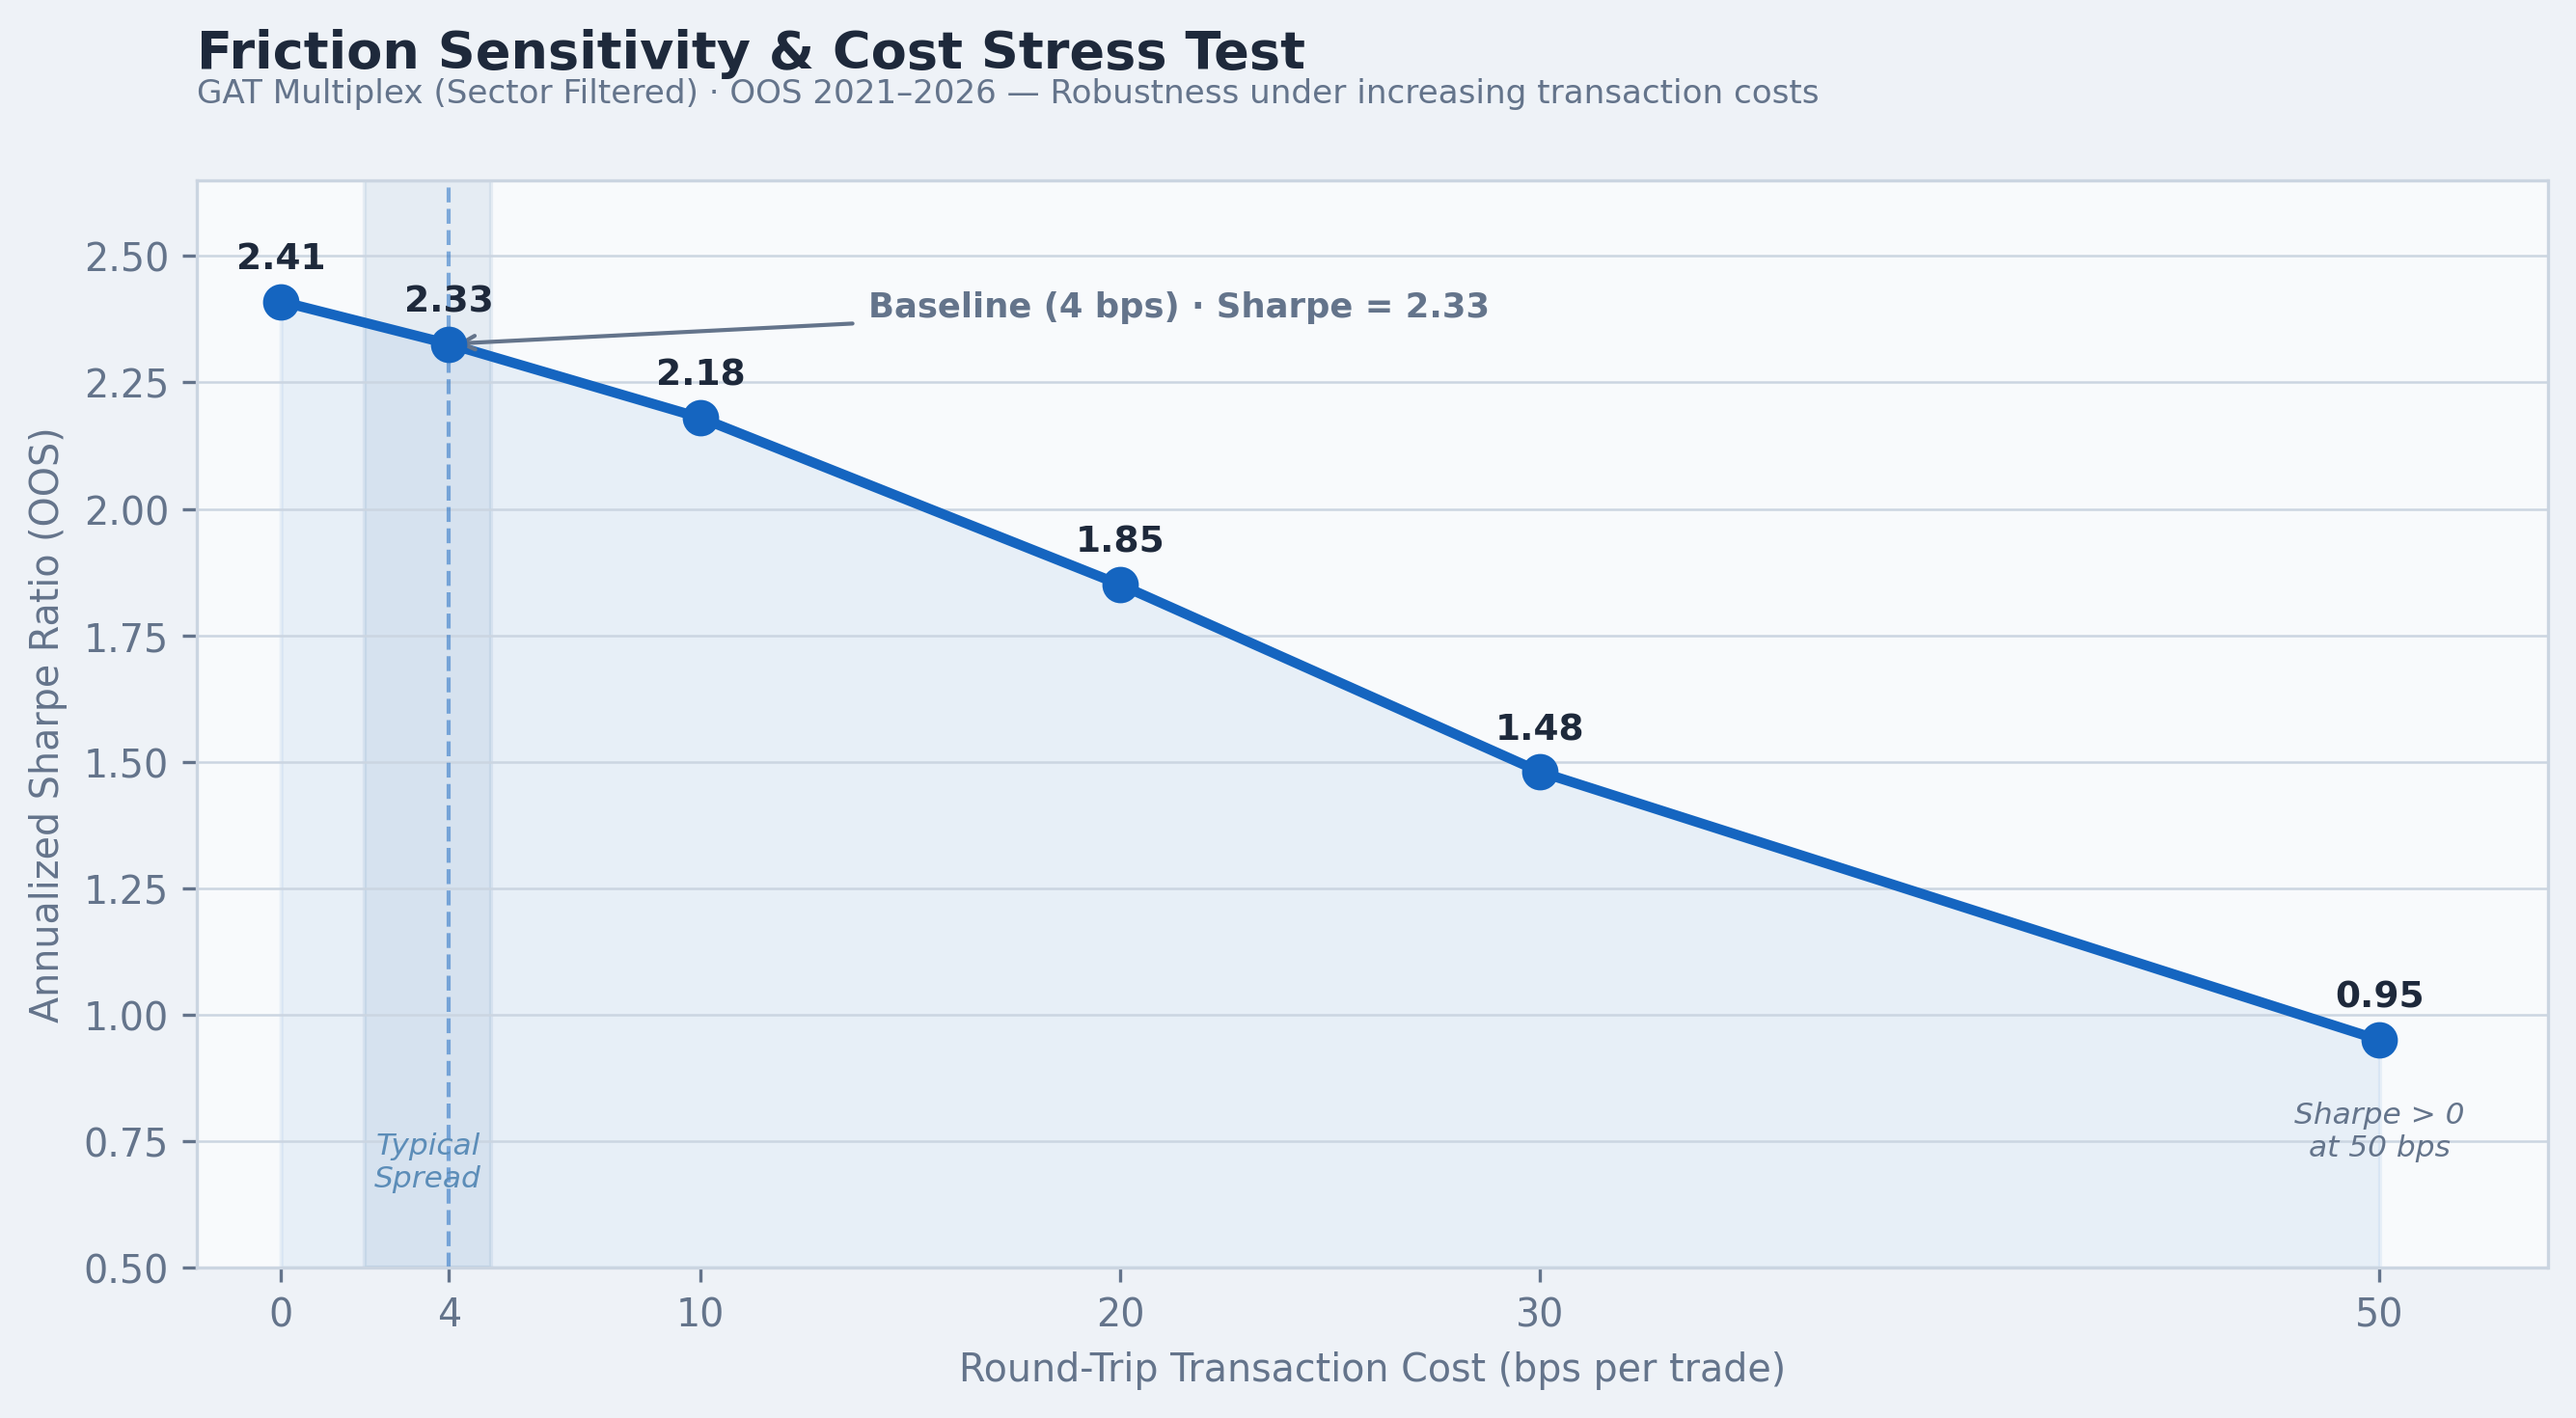
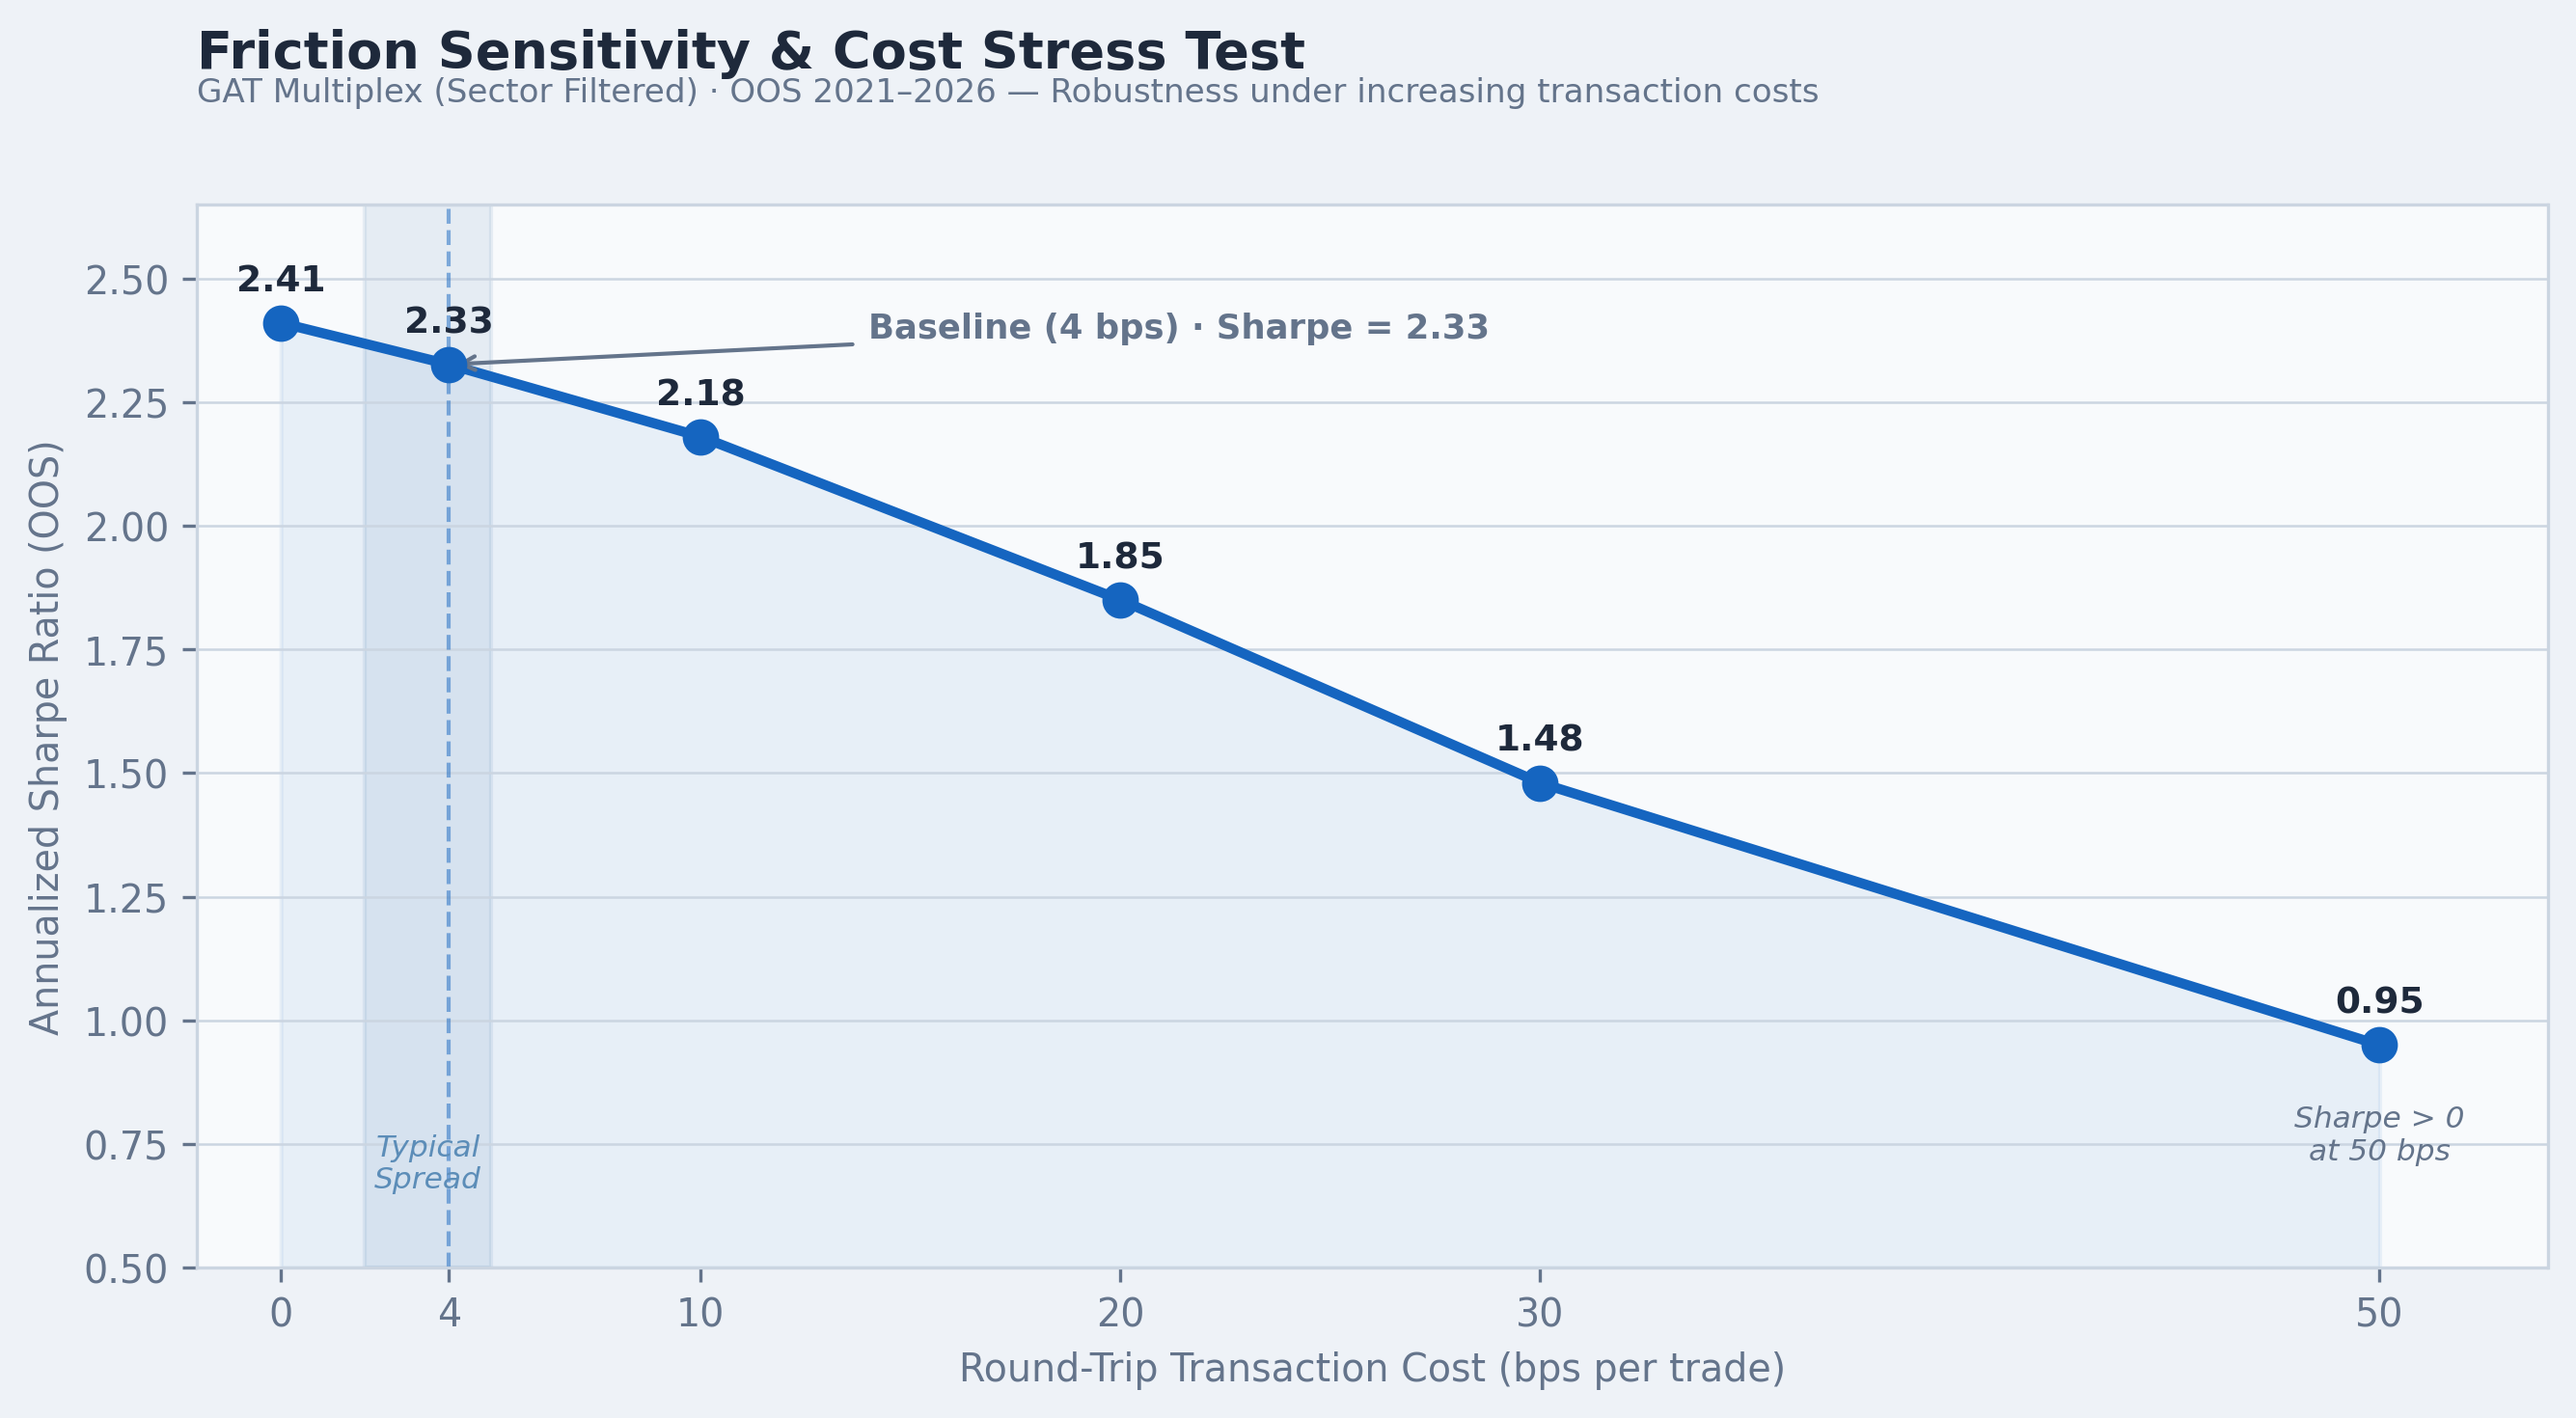
style: increase vertical spacing for gray subtitles above the top plot line

diff --git a/backtest/generate_gat_plots.py b/backtest/generate_gat_plots.py
@@ -46,11 +46,11 @@ def apply_theme(fig, ax):
 
 
 def set_title(ax, title, subtitle=None):
-    pad = 28 if subtitle else 12
+    pad = 34 if subtitle else 12
     ax.set_title(title, loc="left", color=TEXT_PRI, fontsize=13,
                  fontweight="bold", pad=pad)
     if subtitle:
-        ax.annotate(subtitle, xy=(0, 1.065), xycoords="axes fraction",
+        ax.annotate(subtitle, xy=(0, 1.09), xycoords="axes fraction",
                     ha="left", va="bottom", color=TEXT_SEC,
                     fontsize=8.2, annotation_clip=False)
 
